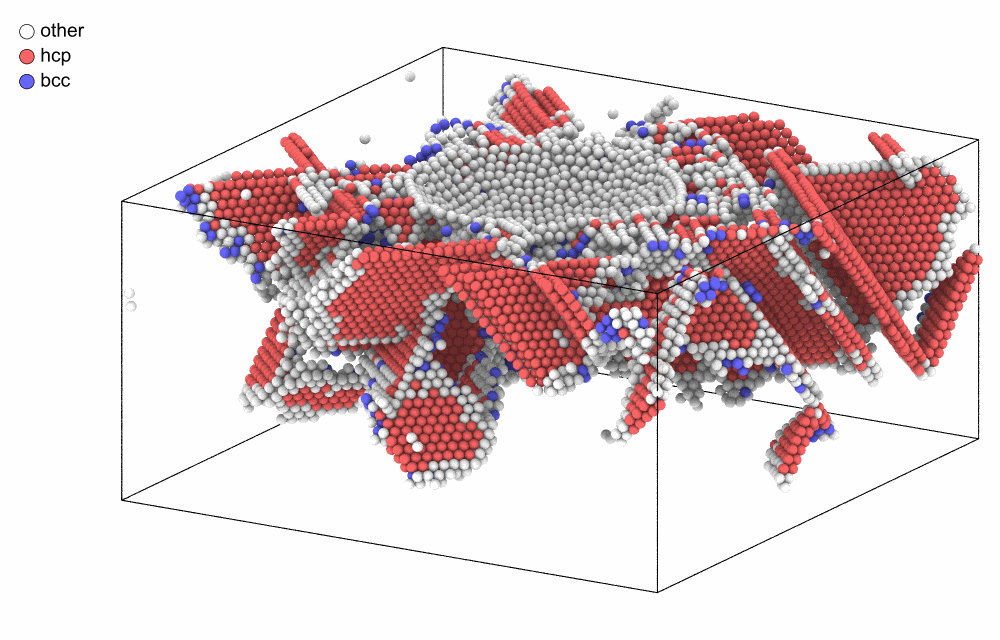
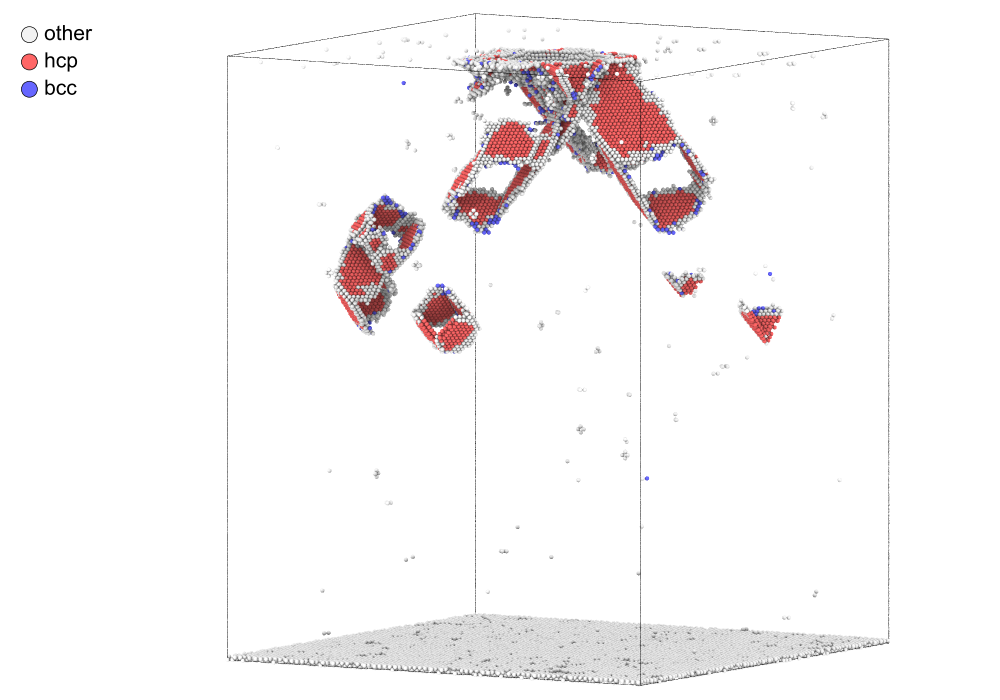
Indentation: a film of copper 36 nm thick, its bottom in the picture of the structures, and the dislocation lines of the dislocation analysis beside it

diff --git a/docs/user-guide/simulation/indentation.md b/docs/user-guide/simulation/indentation.md
@@ -8,7 +8,7 @@ plane that pushes the atoms inside it out with a force $K d^2$, $d$ how far insi
 Moved at a constant velocity into a crystal, it indents it; the force of the atoms on
 it is the load.
 
-A sphere of 4 nm pressed into a film of copper at 50 m/s, on a
+A sphere of 4 nm pressed into a film of copper 36 nm thick at 50 m/s, on a
 [GPU](gpu.md):
 
 <!-- skip-test -->
@@ -20,7 +20,7 @@ from mdapy.simulation import MolecularDynamics
 from mdapy.simulation.controls import Hold, Indenter
 
 copper = EAM.zhou(["Cu"], device="cuda")
-film = build_crystal("fcc", 3.615, elements="Cu", repeat=(40, 40, 20))  # 128000 atoms
+film = build_crystal("fcc", 3.615, elements="Cu", repeat=(80, 80, 100))  # 2560000 atoms
 with MolecularDynamics(film, copper, timestep=0.002) as md:
     md.velocities(600, seed=1)
     md.run(5000, ensemble="npt", temperature=300, pressure=0.0, barostat="aniso")
@@ -77,39 +77,67 @@ with plot.style():
 
 ![The load on a sphere of 4 nm pressed into copper against its depth, with the curve of Hertz](images/indentation-load.png)
 
-*The load follows the elastic contact of Hertz, with a reduced modulus of 94 GPa, to
-about 7 Å; then the crystal yields under the indenter, and the load grows more slowly,
-falling back by tens of nN at times as dislocations nucleate and glide away, to 387 nN
-at 20 Å. The run took 56 s on one V100.*
+*The load follows the elastic contact of Hertz, with a reduced modulus of 80 GPa, to
+about 8 Å; then the crystal yields under the indenter, and the load grows more slowly,
+falling back by 20 to 25 nN at times as dislocations nucleate and glide away, to 330 nN
+at 20 Å. The run took 8 minutes on one V100.*
 
-The film at the deepest, the atoms below its surface that are not fcc by the
-[common neighbor analysis](../analysis/cna.md):
+The film at the deepest: the atoms that are not fcc by the
+[common neighbor analysis](../analysis/cna.md), but those of its top surface, and the
+dislocation lines of the [dislocation analysis](../analysis/dislocations.md):
 
 <!-- skip-test -->
 ```python
+from mdapy.analysis import DislocationAnalysis
 from mdapy.identify import CommonNeighborAnalysis
 from mdapy.visualization import render
 
 structures = CommonNeighborAnalysis().compute(deepest)
-z = deepest["positions.z"]
-inside = (z < surface - 3.0) & (z > z.min() + 3.0)  # neither of the free surfaces
+below = deepest["positions.z"] < surface - 3.0  # all but the top surface
 render(
     deepest,
     "images/indentation-structures.png",
-    atoms=(structures.structure != 1) & inside,
+    atoms=(structures.structure != structures.names.index("fcc")) & below,
     color=structures,
-    view=(0.6, -1.0, -0.35),
+    view=(0.6, -1.0, -0.12),
     width=1000,
-    height=640,
+    height=700,
     legend=True,
+)
+
+dislocations = DislocationAnalysis("fcc").compute(deepest)
+kinds = {"1/2<110>": "perfect", "1/6<112>": "Shockley", "1/6<110>": "stair-rod",
+         "1/3<100>": "Hirth", "1/3<111>": "Frank"}  # fmt: skip
+palette = DislocationAnalysis.FAMILY_COLORS["fcc"]
+families = sorted({line.family for line in dislocations.lines})
+render(
+    deepest,
+    "images/indentation-dislocations.png",
+    atoms=[],  # the lines alone
+    dislocations=dislocations,
+    dislocation_radius=1.0,
+    view=(0.6, -1.0, -0.12),
+    width=1000,
+    height=700,
+    legend={f"{kinds.get(f, '')} {f}".strip(): palette[f] for f in families},
 )
 ```
 
-![The stacking faults and dislocations under a sphere pressed 2 nm into copper](images/indentation-structures.png)
+![The stacking faults under a sphere pressed 2 nm into copper](images/indentation-structures.png)
 
 *Under the dent, the atoms of the contact in gray, stacking faults on the four {111}
 planes, two layers of hcp atoms each, run out from the indenter, bounded by partial
-dislocations: some 7000 hcp atoms at 20 Å.*
+dislocations: some 6500 hcp atoms at 20 Å. Loops of them have glided away along
+⟨110⟩, the deepest to 18 nm below the surface; the lower half of the film, down to its
+bottom, stays fcc. The atoms scattered through the film are taken out of fcc for a
+moment by the vibrations at 300 K.*
+
+![The dislocation lines under a sphere pressed 2 nm into copper](images/indentation-dislocations.png)
+
+*The dislocation lines of the same film in the colors of the families of their Burgers
+vectors: 389 nm of lines, 334 nm of them Shockley partials (green) at the edges of the
+faults, with stair-rods (magenta) and Hirth locks (yellow) where faults on two {111}
+planes meet, which close the loops that glide away.*
 
 ## Parameters
 
